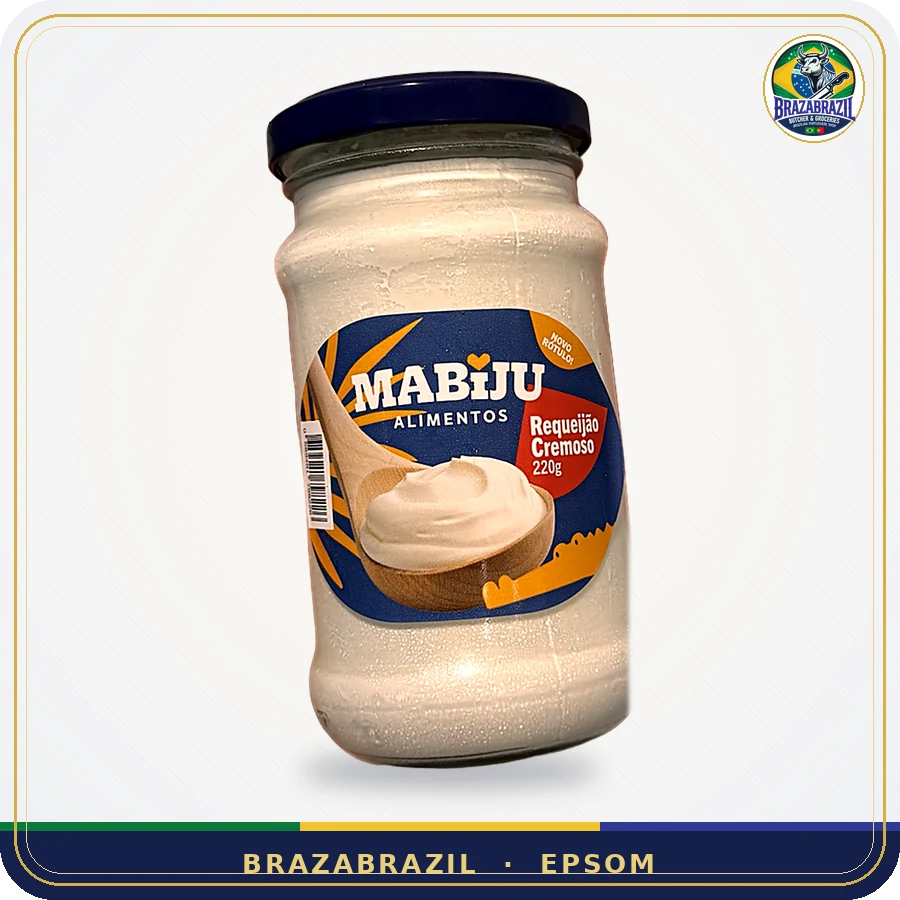
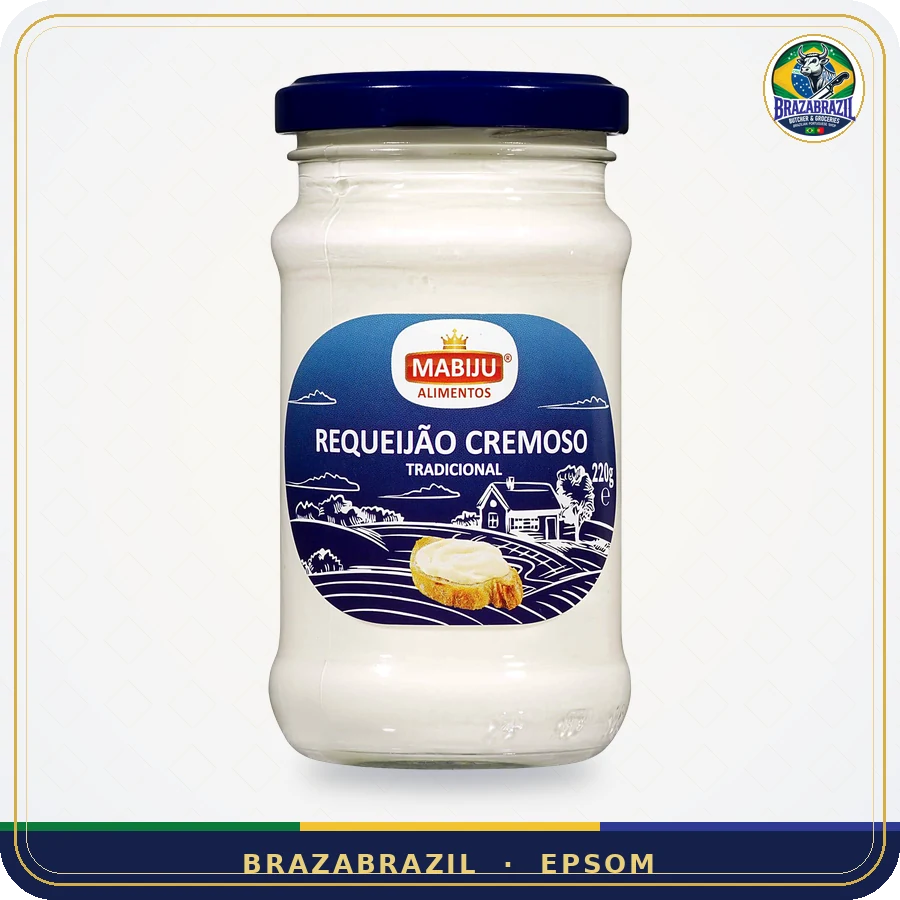
Mercearia: misturas para bolo e pão de queijo, massas, temperos portugueses, enlatados, canjica, pipoca, natas; requeijão Mabiju com preço e foto nova
Claude-Session: https://claude.ai/code/session_01DDRaaWaovpG94AFaRVuRbM

Changed region(s): [[0.28, 0.0622, 0.7156, 0.8711]]

diff --git a/js/groceries.js b/js/groceries.js
@@ -5,10 +5,11 @@ window.GROUPS = window.GROUPS || {};
 window.GROUPS.groceries = [
   { id: "laticinios", label: { en: "Cheese, milk & butter", "pt-BR": "Queijos, leite & manteiga", "pt-PT": "Queijos, leite & manteiga", es: "Quesos, leche y mantequilla" } },
   { id: "matinais", label: { en: "Breakfast, cereals & chocolate drinks", "pt-BR": "Café da manhã & achocolatados", "pt-PT": "Pequeno-almoço & achocolatados", es: "Desayuno y cacao" } },
-  { id: "massas", label: { en: "Instant noodles", "pt-BR": "Miojo & massas instantâneas", "pt-PT": "Massas instantâneas", es: "Fideos instantáneos" } },
+  { id: "massas", label: { en: "Pasta & instant noodles", "pt-BR": "Massas & miojo", "pt-PT": "Massas", es: "Pasta y fideos" } },
+  { id: "bolos", label: { en: "Cake & cheese-bread mixes", "pt-BR": "Misturas para bolo & pão de queijo", "pt-PT": "Misturas para bolo & pão de queijo", es: "Mezclas para bizcocho y pan de queso" } },
   { id: "molhos", label: { en: "Hot sauces & sauces", "pt-BR": "Molhos & pimentas", "pt-PT": "Molhos & piri-piri", es: "Salsas y picantes" } },
   { id: "conservas", label: { en: "Portuguese tinned food", "pt-BR": "Conservas portuguesas", "pt-PT": "Conservas", es: "Conservas portuguesas" } },
-  { id: "geral", label: { en: "Pantry", "pt-BR": "Mercearia", "pt-PT": "Mercearia", es: "Despensa" } }
+  { id: "geral", label: { en: "Pantry, tins & jars", "pt-BR": "Mercearia, enlatados & temperos", "pt-PT": "Mercearia, enlatados & temperos", es: "Despensa y conservas" } }
 ];
 (function () {
   const I = f => "assets/products/groceries/" + f + ".webp";
@@ -54,7 +55,7 @@ window.GROUPS.groceries = [
   S("llanero", "Queso Llanero Paisa · 283 g", "laticinios", 0, "llanero",
     { en: "Venezuelan-style hard cheese", pt: "Queijo duro estilo venezuelano", es: "Queso duro estilo venezolano" },
     { en: "Salty and firm — for arepas, cachapas and grating.", pt: "Salgado e firme — para arepas e para ralar.", es: "Salado y firme — para arepas y cachapas." });
-  S("requeijao-mabiju", "Requeijão Cremoso Mabiju · 220 g", "laticinios", 0, "requeijao-mabiju",
+  S("requeijao-mabiju", "Requeijão Cremoso Mabiju · 220 g", "laticinios", 3.49, "requeijao-mabiju",
     { en: "Brazilian cream cheese spread", pt: "Requeijão cremoso", es: "Queso crema brasileño" },
     { en: "The creamy requeijão Brazilians love on bread and in recipes.", pt: "O requeijão cremoso para o pão e as receitas.", es: "El requeijão cremoso para el pan y recetas." });
   G("tang", "Refresco em Pó Tang · 18 g", "geral",
@@ -107,7 +108,55 @@ window.GROUPS.groceries = [
   S("nobre-chourico", "Chouriço em Lata Nobre", "conservas", 9.50, "nobre-chourico",
     { en: "Smoked pork sausage in oil · tinned", pt: "Chouriço de porco em óleo", es: "Chorizo ahumado en aceite" },
     { en: "Smoked Portuguese chouriço preserved in oil — slice and serve.", pt: "Chouriço fumado conservado em óleo — é só fatiar.", es: "Chorizo portugués ahumado en aceite." }, { tags: ["portuguese"] });
-  const SOON = new Set(["muenster", "llanero", "requeijao-mabiju", "gota-alho"]);
+  /* ---------- remessa misturas / massas / enlatados ---------- */
+  G("dona-benta", "Mistura para Bolo Dona Benta · 450 g", "bolos",
+    { en: "Brazilian cake mix", pt: "Mistura para bolo caseiro", es: "Mezcla para bizcocho" },
+    { en: "Fluffy home-style Brazilian cake — just add eggs, milk and oil.", pt: "Bolo caseiro fofinho — é só juntar ovos, leite e óleo.", es: "Bizcocho casero esponjoso — solo añade huevos, leche y aceite." },
+    [["db-aipim", "Aipim / macaxeira", 2.99, "db-aipim"], ["db-fuba", "Fubá", 2.99, "db-fuba"], ["db-laranja", "Laranja", 2.99, "db-laranja"], ["db-milho", "Milho", 2.99, "db-milho"]]);
+  S("renata-abacaxi", "Mistura para Bolo Renata Abacaxi · 400 g", "bolos", 2.50, "renata-abacaxi",
+    { en: "Pineapple cake mix", pt: "Mistura para bolo sabor abacaxi", es: "Mezcla para bizcocho de piña" },
+    { en: "Moist pineapple cake, easy to make.", pt: "Bolo de abacaxi molhadinho e fácil de fazer.", es: "Bizcocho de piña jugoso y fácil." });
+  G("mistura-paoqueijo", "Mistura para Pão de Queijo", "bolos",
+    { en: "Cheese bread mix · gluten-free", pt: "Mistura para pão de queijo", es: "Mezcla para pan de queso" },
+    { en: "Make warm pão de queijo at home — naturally gluten-free.", pt: "Pão de queijo quentinho feito em casa — sem glúten.", es: "Pan de queso casero — sin gluten." },
+    [["mix-lopes", "Mix Lopes · polvilho 1 kg", 2.95, "mix-lopes"], ["yoki-paoqueijo", "Yoki", 2.99, "yoki-paoqueijo"]], { tags: ["gf"] });
+  S("espaguete", "Macarrão Espaguete Milaneza · 500 g", "massas", 1.50, "espaguete",
+    { en: "Spaghetti", pt: "Espaguete", es: "Espaguetis" },
+    { en: "Classic spaghetti for the Sunday macarronada.", pt: "Espaguete clássico para a macarronada de domingo.", es: "Espaguetis clásicos." });
+  S("fusilli", "Macarrão Fusilli Tricolor Continente · 500 g", "massas", 1.99, "fusilli",
+    { en: "Tricolour fusilli · tomato & spinach", pt: "Parafuso tricolor · tomate e espinafre", es: "Fusilli tricolor" },
+    { en: "Colourful pasta spirals — kids love them.", pt: "Parafusos coloridos — as crianças adoram.", es: "Espirales de colores." }, { tags: ["portuguese"] });
+  S("lacos", "Macarrão Laços Granoro · 500 g", "massas", 2.20, "lacos",
+    { en: "Farfalloni bow-tie pasta", pt: "Macarrão gravatinha", "pt-PT": "Massa laços", es: "Pasta lacitos" },
+    { en: "Italian bow-tie pasta, great for salads and bakes.", pt: "Gravatinha italiana, ótima para saladas e forno.", es: "Lacitos italianos." });
+  S("malagueta", "Pimenta Malagueta Misturada Aroma D’Minas", "molhos", 3.99, "malagueta",
+    { en: "Whole mixed chillies in vinegar", pt: "Pimenta malagueta em conserva", es: "Guindillas en vinagre" },
+    { en: "Whole malagueta peppers in vinegar — a drop goes a long way.", pt: "Malagueta inteira em conserva — poucas gotas bastam.", es: "Guindillas enteras en vinagre." });
+  S("massa-pimentao", "Massa de Pimentão Dom Duarte", "molhos", 2.19, "massa-pimentao",
+    { en: "Portuguese red pepper paste", pt: "Massa de pimentão", es: "Pasta de pimiento rojo" },
+    { en: "The secret of Portuguese marinades — rub it on pork and chicken.", pt: "O segredo do tempero português — para porco e frango.", es: "El secreto de los adobos portugueses." }, { tags: ["portuguese"] });
+  S("vinha-alho", "Massa de Vinha d’Alhos Espiga", "molhos", 2.19, "vinha-alho",
+    { en: "Garlic & wine marinade paste", pt: "Tempero vinha d’alhos", es: "Adobo de ajo y vino" },
+    { en: "Ready-made vinha d’alhos — marinate pork overnight.", pt: "Vinha d’alhos pronta — tempere o porco de véspera.", es: "Adobo listo para el cerdo." }, { tags: ["portuguese"] });
+  S("milho-verde", "Milho Verde Green Giant", "geral", 1.99, "milho-verde",
+    { en: "Sweetcorn · tinned", pt: "Milho verde em lata", es: "Maíz dulce en lata" },
+    { en: "Naturally sweet corn for salads, pizza and cuscuz.", pt: "Milho docinho para salada, pizza e cuscuz.", es: "Maíz dulce para ensaladas y pizza." });
+  S("pickles", "Mix Pickles Bodrum", "geral", 3.99, "pickles",
+    { en: "Mixed pickles in vinegar", pt: "Picles misto em conserva", es: "Encurtidos variados" },
+    { en: "Crunchy mixed vegetables in vinegar.", pt: "Legumes crocantes em conserva.", es: "Verduras crujientes en vinagre." });
+  S("tremocos", "Tremoços Extra Maçarico · 550 g", "geral", 3.69, "tremocos",
+    { en: "Lupin beans in brine", pt: "Tremoços em conserva", es: "Altramuces" },
+    { en: "The Portuguese snack for a cold beer.", pt: "O petisco português para acompanhar a cerveja.", es: "El aperitivo portugués con una cerveza." }, { tags: ["portuguese", "vegan"] });
+  S("canjica", "Milho para Canjica Branca Sinhá · 500 g", "geral", 2.99, "canjica",
+    { en: "White hominy corn", pt: "Canjica de milho branca", es: "Maíz blanco para canjica" },
+    { en: "For canjica (mungunzá) — the creamy festa junina dessert.", pt: "Para canjica ou mungunzá — o doce da festa junina.", es: "Para canjica, el postre de las fiestas de junio." }, { tags: ["gf"] });
+  S("pipoca", "Milho para Pipoca Yoki · 400 g", "geral", 2.99, "pipoca",
+    { en: "Popcorn kernels", pt: "Milho de pipoca", es: "Maíz para palomitas" },
+    { en: "Selected kernels that pop big and fluffy.", pt: "Grãos selecionados que estouram grandes.", es: "Granos seleccionados." });
+  S("mimosa-natas", "Natas Culinária Mimosa · 200 ml", "laticinios", 2.25, "mimosa-natas",
+    { en: "Portuguese cooking cream", pt: "Creme de leite culinário", "pt-PT": "Natas para culinária", es: "Nata para cocinar" },
+    { en: "Light cooking cream for sauces and bacalhau com natas.", pt: "Para molhos e bacalhau com natas.", es: "Para salsas y bacalao con nata." }, { tags: ["portuguese"] });
+  const SOON = new Set(["muenster", "llanero", "gota-alho"]);
   out.forEach(p => { if (SOON.has(p.id)) { p.available = false; p.soon = true; } });
   const order = window.GROUPS.groceries.map(g => g.id);
   out.sort((a, b) => order.indexOf(a.group) - order.indexOf(b.group) || a.price - b.price || a.name.localeCompare(b.name));
